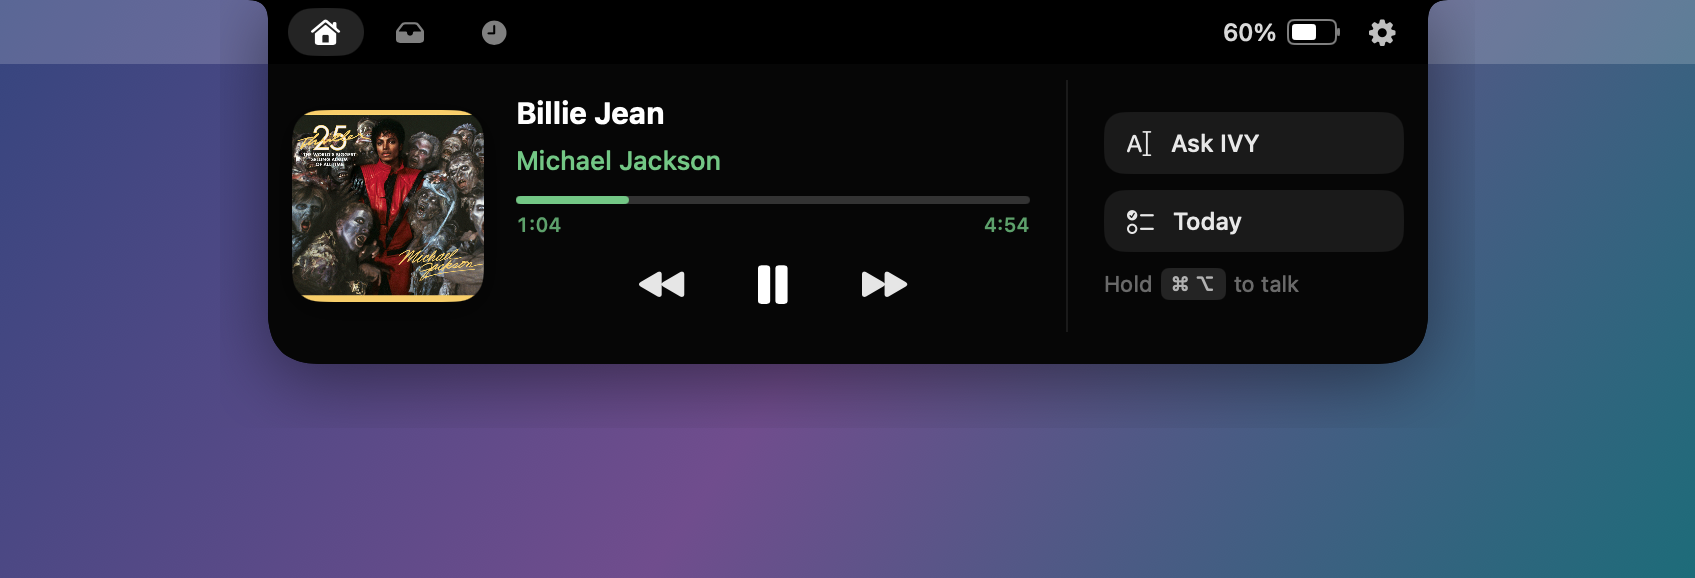
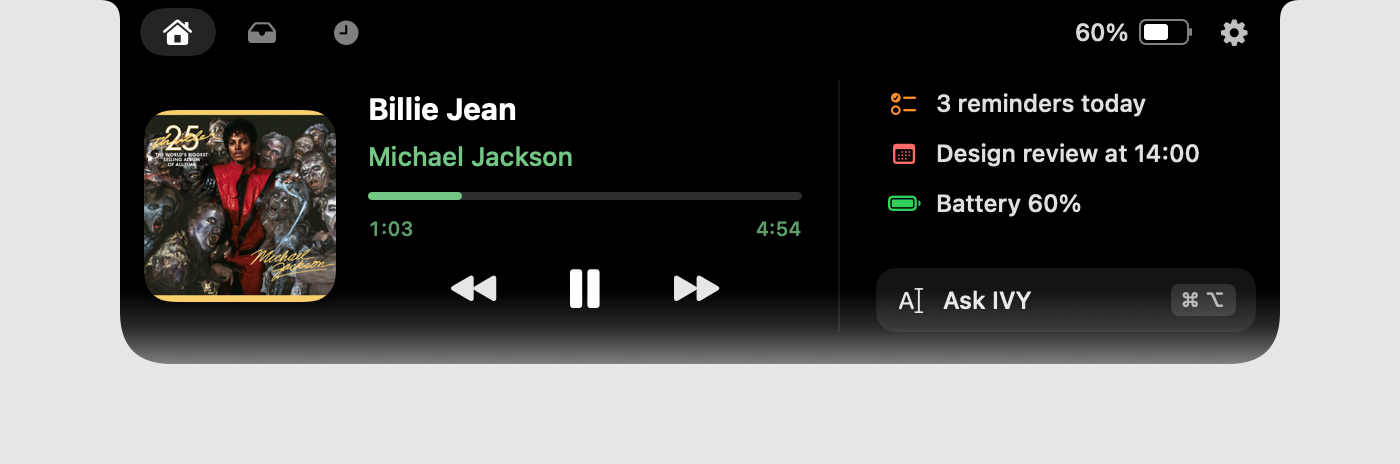
Refresh README screenshots for the current IVY interface

diff --git a/README.md b/README.md
@@ -36,6 +36,8 @@ The expanded notch stays black through its upper 80% and gradually becomes more 
 
 ## Screenshots
 
+Current interface, shown with sample content. The notch previews include the bottom fade and omit model labels.
+
 <p align="center">
   <img src="docs/screenshots/reminders.png" alt="IVY answering “What's on my to-do list for today?” with three reminders" width="32%">
   <img src="docs/screenshots/music.png" alt="IVY playing Billie Jean with the Spotify playback card" width="32%">
@@ -53,6 +55,18 @@ The expanded notch stays black through its upper 80% and gradually becomes more 
 | File shelf with AirDrop |
 | --- |
 | ![Drag-and-drop file shelf with an AirDrop target](docs/screenshots/shelf.png) |
+
+| Writing assistant | AI settings and models by task |
+| --- | --- |
+| ![IVY previewing a clearer rewrite in the notch with Accept and Revise actions](docs/screenshots/writing.png) | ![IVY AI settings with per-task model choices and cloud provider configuration](docs/screenshots/settings-ai.jpg) |
+
+| App connectors | Dashboard customization |
+| --- | --- |
+| ![Categorized connector gallery with Gmail, Google Drive, Calendar and real service icons](docs/screenshots/settings-connectors.jpg) | ![Dashboard settings for choosing, ordering and showing widgets](docs/screenshots/settings-dashboard.jpg) |
+
+<p align="center">
+  <img src="docs/screenshots/settings-general.jpg" alt="Full IVY settings window with general preferences, notch behavior and display selection" width="90%">
+</p>
 
 ## Requirements
 
